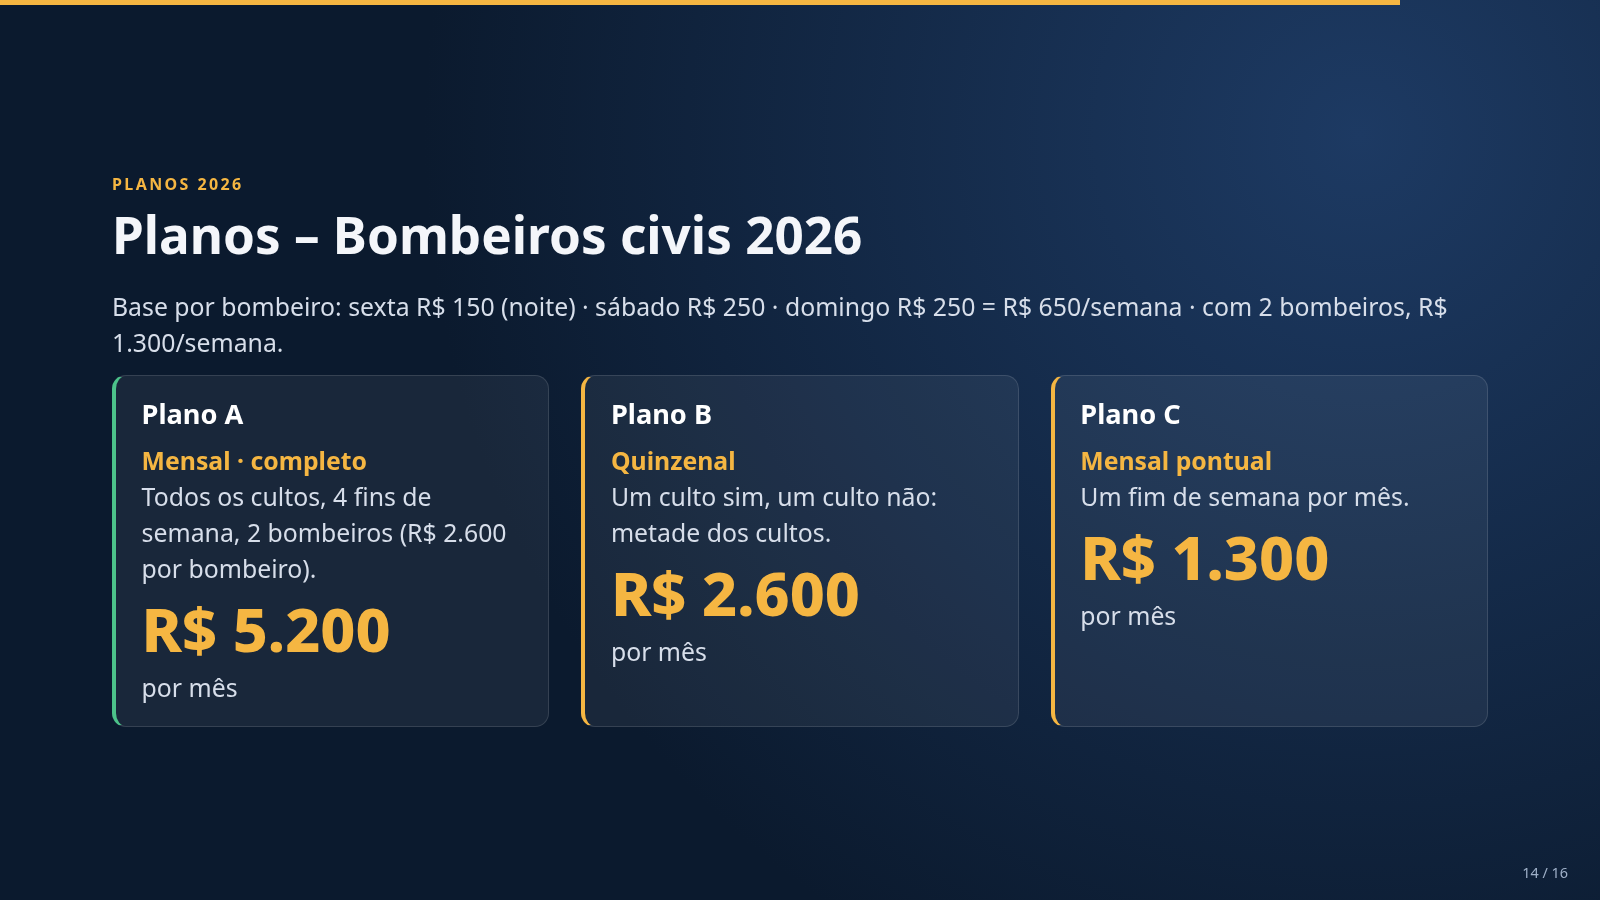
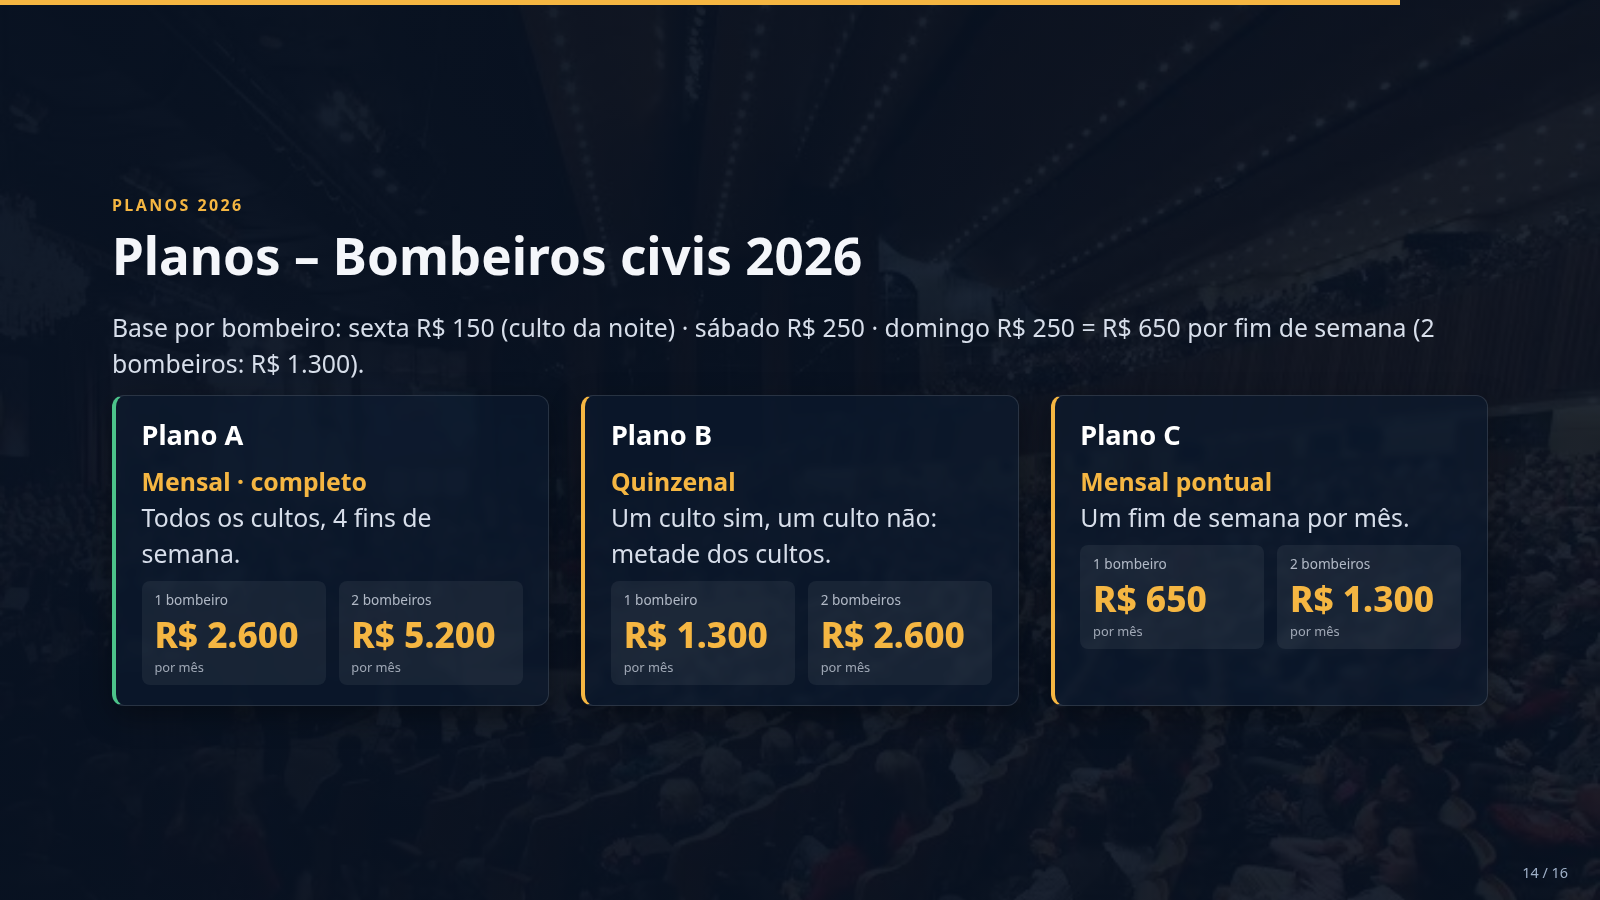
Planos 1 ou 2 bombeiros

diff --git a/index.html b/index.html
@@ -84,7 +84,7 @@ small,.src{font-size:clamp(.75rem,1.3vw,.95rem);color:#9fb0c8}.src a{color:#9fc3
 <div class="c"><b>Ano passado</b><p>R$ 90 por pessoa, cobrados à parte para brigada, Celebre e Nataleluia.</p></div>
 <div class="c ok"><b>Este ano</b><p>Contrato anual unificado, com desconto para as duas partes.</p></div></div></section>
 
-<section class="s bgp soft" id="planos" data-bg="img/galerias.webp" style="--pos:center;--dir:90deg;--end:.9"><div class="k">Planos 2026</div><h2>Planos – Bombeiros civis 2026</h2><p style="margin-bottom:1.5vh">Base por bombeiro: sexta R$ 150 (noite) · sábado R$ 250 · domingo R$ 250 = R$ 650/semana · com 2 bombeiros, R$ 1.300/semana.</p><div class="g"><div class="c ok"><b>Plano A</b><p style="color:#f5b642;font-weight:700">Mensal · completo</p><p>Todos os cultos, 4 fins de semana, 2 bombeiros (R$ 2.600 por bombeiro).</p><div class="big">R$ 5.200</div><p>por mês</p></div><div class="c"><b>Plano B</b><p style="color:#f5b642;font-weight:700">Quinzenal</p><p>Um culto sim, um culto não: metade dos cultos.</p><div class="big">R$ 2.600</div><p>por mês</p></div><div class="c"><b>Plano C</b><p style="color:#f5b642;font-weight:700">Mensal pontual</p><p>Um fim de semana por mês.</p><div class="big">R$ 1.300</div><p>por mês</p></div></div></section>
+<section class="s bgp soft" id="planos" data-bg="img/galerias.webp" style="--pos:center;--dir:90deg;--end:.9"><div class="k">Planos 2026</div><h2>Planos – Bombeiros civis 2026</h2><p style="margin-bottom:1.5vh">Base por bombeiro: sexta R$ 150 (culto da noite) · sábado R$ 250 · domingo R$ 250 = R$ 650 por fim de semana (2 bombeiros: R$ 1.300).</p><div class="g"><div class="c ok"><b>Plano A</b><p style="color:#f5b642;font-weight:700">Mensal · completo</p><p>Todos os cultos, 4 fins de semana.</p><div style="display:flex;gap:.8vw;margin-top:1vh"><div style="flex:1;background:rgba(255,255,255,.06);border-radius:8px;padding:1vh .8vw"><p style="font-size:.85em;opacity:.8">1 bombeiro</p><div class="big" style="font-size:clamp(1.3rem,2.6vw,2.2rem)">R$ 2.600</div><p style="font-size:.8em;opacity:.7">por mês</p></div><div style="flex:1;background:rgba(255,255,255,.06);border-radius:8px;padding:1vh .8vw"><p style="font-size:.85em;opacity:.8">2 bombeiros</p><div class="big" style="font-size:clamp(1.3rem,2.6vw,2.2rem)">R$ 5.200</div><p style="font-size:.8em;opacity:.7">por mês</p></div></div></div><div class="c"><b>Plano B</b><p style="color:#f5b642;font-weight:700">Quinzenal</p><p>Um culto sim, um culto não: metade dos cultos.</p><div style="display:flex;gap:.8vw;margin-top:1vh"><div style="flex:1;background:rgba(255,255,255,.06);border-radius:8px;padding:1vh .8vw"><p style="font-size:.85em;opacity:.8">1 bombeiro</p><div class="big" style="font-size:clamp(1.3rem,2.6vw,2.2rem)">R$ 1.300</div><p style="font-size:.8em;opacity:.7">por mês</p></div><div style="flex:1;background:rgba(255,255,255,.06);border-radius:8px;padding:1vh .8vw"><p style="font-size:.85em;opacity:.8">2 bombeiros</p><div class="big" style="font-size:clamp(1.3rem,2.6vw,2.2rem)">R$ 2.600</div><p style="font-size:.8em;opacity:.7">por mês</p></div></div></div><div class="c"><b>Plano C</b><p style="color:#f5b642;font-weight:700">Mensal pontual</p><p>Um fim de semana por mês.</p><div style="display:flex;gap:.8vw;margin-top:1vh"><div style="flex:1;background:rgba(255,255,255,.06);border-radius:8px;padding:1vh .8vw"><p style="font-size:.85em;opacity:.8">1 bombeiro</p><div class="big" style="font-size:clamp(1.3rem,2.6vw,2.2rem)">R$ 650</div><p style="font-size:.8em;opacity:.7">por mês</p></div><div style="flex:1;background:rgba(255,255,255,.06);border-radius:8px;padding:1vh .8vw"><p style="font-size:.85em;opacity:.8">2 bombeiros</p><div class="big" style="font-size:clamp(1.3rem,2.6vw,2.2rem)">R$ 1.300</div><p style="font-size:.8em;opacity:.7">por mês</p></div></div></div></div></section>
 <section class="s" id="valores"><div class="k">Proposta 2026</div><h2>Novos valores – contrato anual 2026</h2><table id="vt" style="width:100%;border-collapse:collapse;font-size:clamp(1rem,2.2vw,1.6rem)"></table><p style="margin-top:2vh"><small>Valores a definir em conjunto com a liderança, com desconto para as duas partes.</small></p></section>
 
 <section class="s bgp" id="contato" data-bg="img/templo-lotado.webp" style="--pos:center;--dir:270deg;--end:.45"><span class="credit">Templo da PIB Curitiba</span><div class="k">Obrigado</div><h1>Vamos cuidar juntos de quem vem à PIB.</h1><p style="margin-top:4vh;font-size:clamp(1.2rem,2.8vw,2rem)"><b>Antônio Neto</b></p><p>Segurança, Brigada e Capacitação</p></section>
